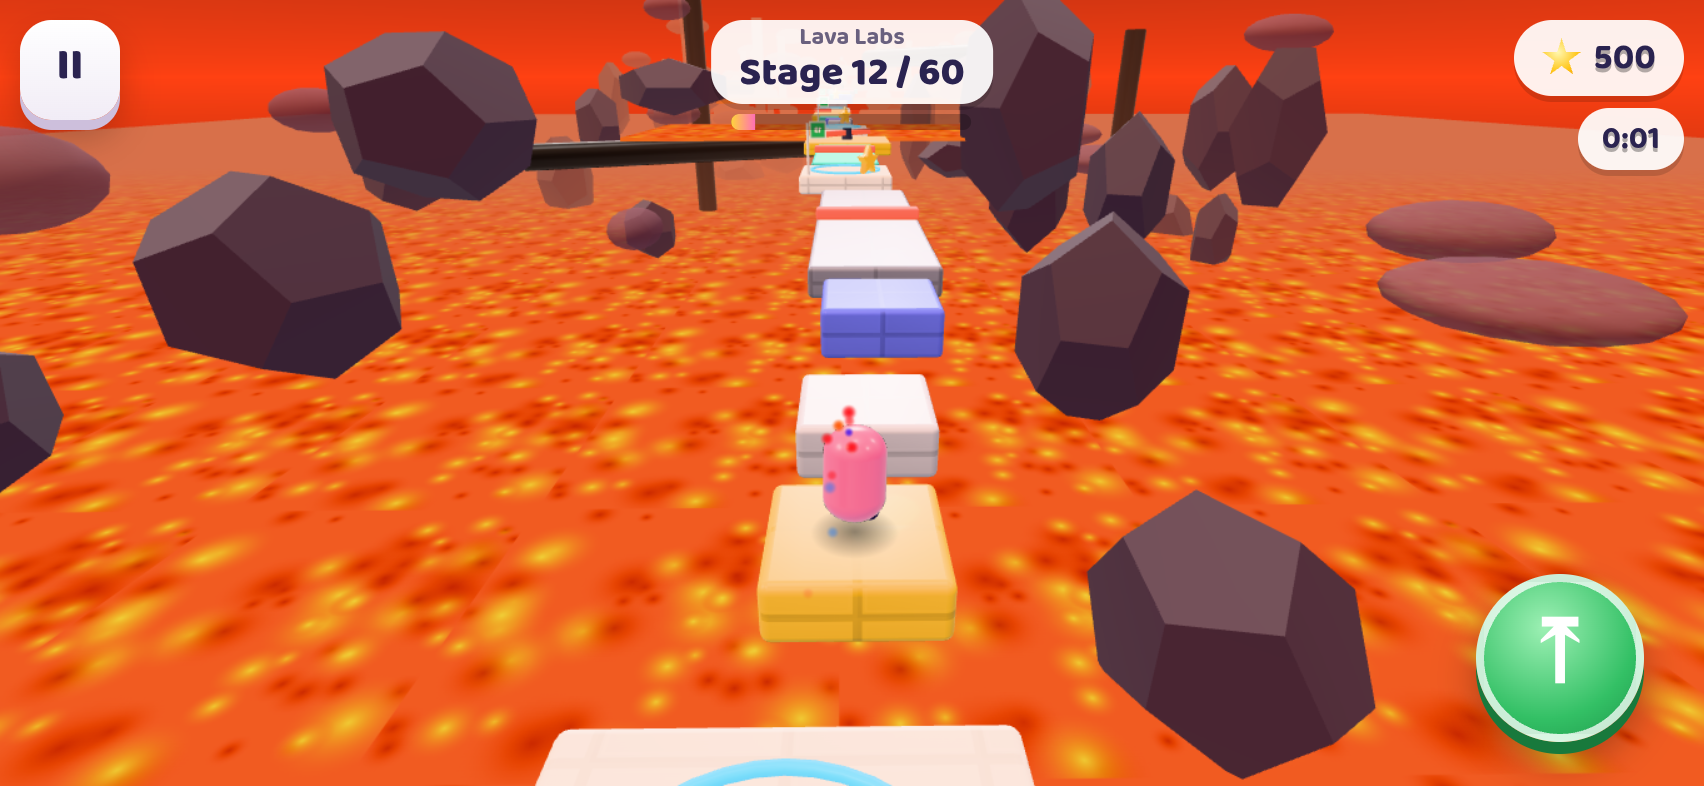
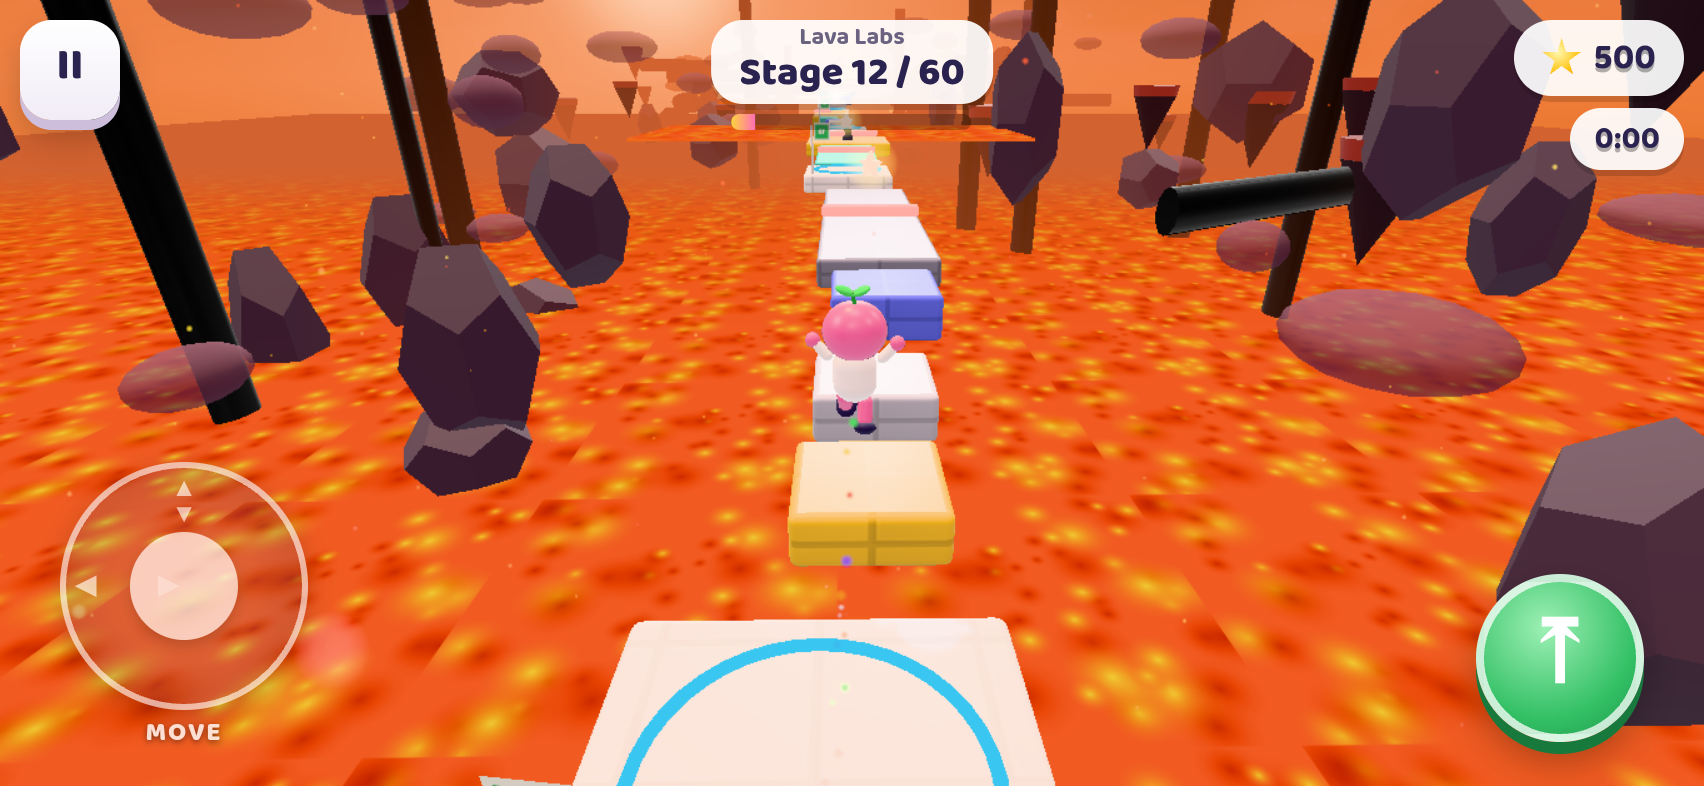
PWA: SW hop-heights-v2, refreshed title/screenshot art

diff --git a/sw.js b/sw.js
@@ -1,6 +1,6 @@
 /* Hop Heights service worker, scope /hop-heights/ only (keeps the hub's "/" worker off this game).
    Network-first for the game page (fresh builds win online, cached copy offline); cache-first for own icons. */
-const C = "hop-heights-v1";
+const C = "hop-heights-v2";
 self.addEventListener("install", (e) => { e.waitUntil(Promise.race([new Promise((ok) => setTimeout(ok, 10000)), caches.open(C).then((c) => c.addAll(["./", "manifest.webmanifest", "icons/icon-192.png", "vendor/three.min.js"])).catch(() => {})]).then(() => self.skipWaiting())); });
 self.addEventListener("activate", (e) => { e.waitUntil(caches.keys().then((ks) => Promise.all(ks.filter((k) => k.startsWith("hop-heights-") && k !== C).map((k) => caches.delete(k)))).then(() => self.clients.claim())); });
 self.addEventListener("fetch", (e) => {
